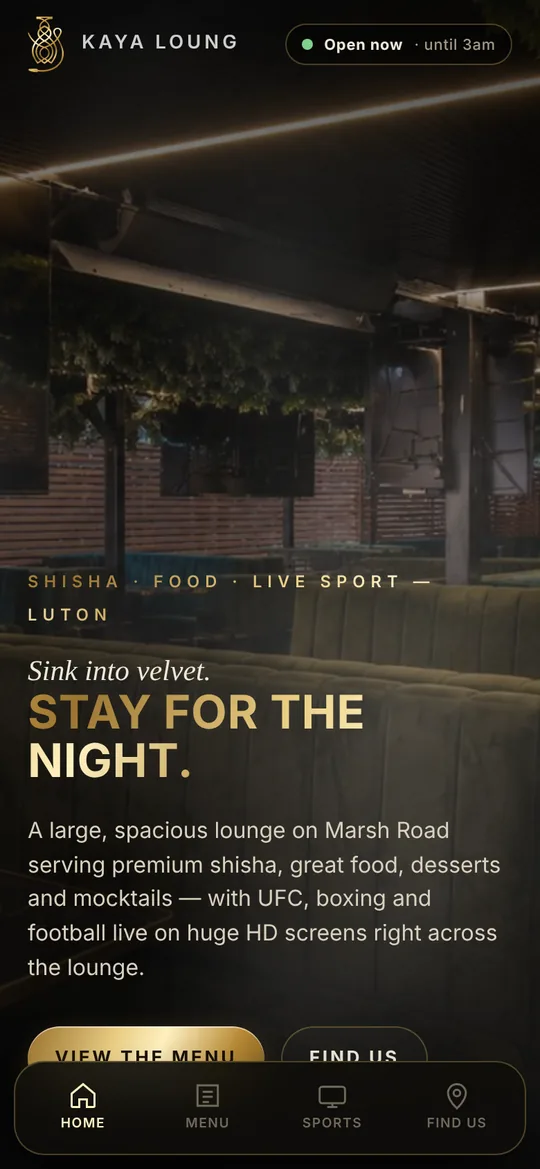
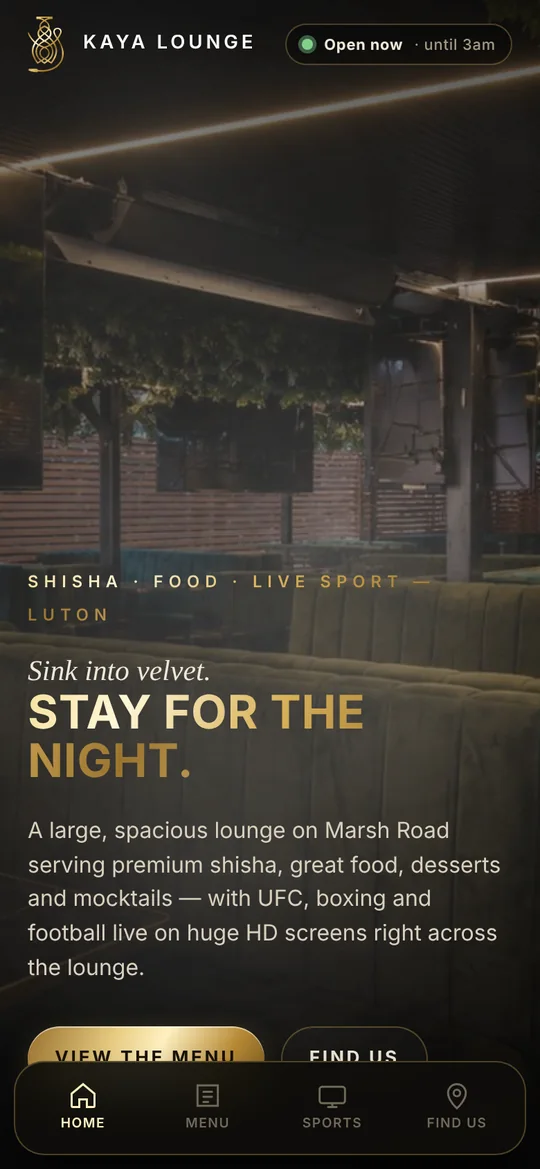
Updated Allure + Kaya screens, true-proportion phone frames, remove Coming soon tags
Claude-Session: https://claude.ai/code/session_01YJ1z4vHF3XLVwcpzAtDnW9

diff --git a/index.html b/index.html
@@ -615,14 +615,14 @@ img.o-hoodie{height:auto;object-fit:contain;filter:drop-shadow(0 26px 30px rgba(
 .pf-row{display:flex;gap:14px;overflow-x:auto;scroll-snap-type:x mandatory;scrollbar-width:none;padding:20px 22px 6px;-webkit-overflow-scrolling:touch}
 .pf-row::-webkit-scrollbar{display:none}
 .pf-ph{flex:none;scroll-snap-align:center;border:0;background:none;padding:0;color:inherit;cursor:zoom-in;display:flex;flex-direction:column;align-items:center;gap:10px;font:inherit}
-.pf-frame{display:block;width:170px;aspect-ratio:540/1169;border-radius:26px;padding:6px;background:#0b0b10;box-shadow:0 0 0 1.5px rgba(255,255,255,.12),0 22px 40px rgba(0,0,0,.35);transition:transform .35s var(--ease)}
-.pf-frame img{display:block;width:100%;height:100%;object-fit:cover;object-position:top;border-radius:21px}
+.pf-frame{display:block;width:190px;padding:5px;border-radius:24px;background:#0b0b10;box-shadow:0 0 0 1.5px rgba(255,255,255,.12),0 22px 40px rgba(0,0,0,.35);transition:transform .35s var(--ease)}
+.pf-frame img{display:block;width:100%;height:auto;aspect-ratio:540/1169;object-fit:contain;border-radius:19px}
 .pf-ph:hover .pf-frame{transform:translateY(-6px)}
 .pf-ph b{font-size:12.5px;font-weight:800;opacity:.85}
 .pf-lb{position:fixed;inset:0;z-index:300;background:rgba(8,8,15,.9);backdrop-filter:blur(10px);-webkit-backdrop-filter:blur(10px);display:grid;place-items:center;opacity:0;pointer-events:none;transition:opacity .3s}
 .pf-lb.open{opacity:1;pointer-events:auto}
-.pf-lbf{width:min(330px,74vw);aspect-ratio:540/1169;max-height:80vh;border-radius:40px;padding:9px;background:#0b0b10;box-shadow:0 0 0 2px #2a2a38,0 40px 90px rgba(0,0,0,.6)}
-.pf-lbf img{width:100%;height:100%;object-fit:cover;object-position:top;border-radius:32px}
+.pf-lbf{padding:8px;border-radius:34px;background:#0b0b10;box-shadow:0 0 0 2px #2a2a38,0 40px 90px rgba(0,0,0,.6)}
+.pf-lbf img{display:block;height:min(74vh,calc(72vw * 2.165));width:auto;aspect-ratio:540/1169;object-fit:contain;border-radius:27px}
 .pf-lbc{position:absolute;bottom:calc(18px + var(--safe-b));left:0;right:0;text-align:center;font-weight:800;color:#fff}
 .pf-x{position:absolute;top:calc(14px + var(--safe-t));right:14px;width:46px;height:46px;border-radius:50%;border:0;background:rgba(255,255,255,.12);color:#fff;font-size:28px;cursor:pointer}
 .pf-nav{position:absolute;top:50%;margin-top:-26px;width:52px;height:52px;border-radius:50%;border:0;background:rgba(255,255,255,.12);color:#fff;font-size:34px;line-height:1;cursor:pointer}
@@ -631,7 +631,7 @@ img.o-hoodie{height:auto;object-fit:contain;filter:drop-shadow(0 26px 30px rgba(
 #d-apps.lt .compare{background:#fff}
 #d-apps.lt .compare .row:first-child{background:#f3efff}
 #d-apps.lt .compare .row>div:nth-child(2){color:#16131f}
-@media (min-width:720px){.pf-tabs{margin:0 0 18px;padding:0}.pf-panel{display:none;grid-template-columns:300px 1fr;align-items:center;padding:30px 0}.pf-panel.on{display:grid}.pf-info{padding:0 0 0 34px}.pf-frame{width:172px}.pf-row{padding:20px 30px 10px}}
+@media (min-width:720px){.pf-tabs{margin:0 0 18px;padding:0}.pf-panel{display:none;grid-template-columns:300px 1fr;align-items:center;padding:30px 0}.pf-panel.on{display:grid}.pf-info{padding:0 0 0 34px}.pf-frame{width:180px}.pf-row{padding:20px 30px 10px}}
 
 /* ---------- intro splash ---------- */
 #splash{position:fixed;inset:0;z-index:999;background:#07070d;display:grid;place-items:center;overflow:hidden;animation:spOut 3.4s cubic-bezier(.4,0,.2,1) forwards;cursor:pointer}
@@ -958,11 +958,11 @@ setTimeout(done,3700);})();
       <div class="sec-head rv tight"><span class="eyebrow">Apps &amp; websites</span><h2>Apps we've built for<br><span class="grad-text">local businesses.</span></h2><p class="lede">Each one custom-designed in the client's own brand. Tap a screen to take a closer look.</p></div>
       <div class="pf-tabs rv"><button class="pf-tab on" data-app="allure" style="--ac:#b8862f"><i style="background:#b8862f"></i>Allure Club</button><button class="pf-tab" data-app="snw" style="--ac:#ffc21a"><i style="background:#ffc21a"></i>Smash N Wings</button><button class="pf-tab" data-app="kaya" style="--ac:#d4af37"><i style="background:#d4af37"></i>Kaya Lounge</button></div>
       <div class="pf-panels rv"><div class="pf-panel on" data-app="allure" style="--ac:#b8862f;--bgc:#fbf6ec">
-        <div class="pf-info"><span class="pf-tag">Coming soon</span><h3>Allure Club</h3><p>Coffee &amp; dessert lounge · loyalty app</p><div class="pf-chips"><span>Digital stamp card</span><span>Weekly spin &amp; win</span><span>Member offers</span><span>Staff terminal</span></div></div>
+        <div class="pf-info"><h3>Allure Club</h3><p>Coffee &amp; dessert lounge · loyalty app</p><div class="pf-chips"><span>Digital stamp card</span><span>Weekly spin &amp; win</span><span>Member offers</span><span>Staff terminal</span></div></div>
         <div class="pf-row"><button class="pf-ph" data-i="0"><span class="pf-frame"><img src="assets/apps/allure-home.webp" alt="Allure Club app: Join the club" loading="lazy"></span><b>Join the club</b></button><button class="pf-ph" data-i="1"><span class="pf-frame"><img src="assets/apps/allure-spin.webp" alt="Allure Club app: Spin the wheel" loading="lazy"></span><b>Spin the wheel</b></button><button class="pf-ph" data-i="2"><span class="pf-frame"><img src="assets/apps/allure-menu.webp" alt="Allure Club app: Live menu" loading="lazy"></span><b>Live menu</b></button><button class="pf-ph" data-i="3"><span class="pf-frame"><img src="assets/apps/allure-staff.webp" alt="Allure Club app: Staff stamp terminal" loading="lazy"></span><b>Staff stamp terminal</b></button></div></div><div class="pf-panel" data-app="snw" style="--ac:#ffc21a;--bgc:#2b0f5c">
-        <div class="pf-info"><span class="pf-tag">Coming soon</span><h3>Smash N Wings</h3><p>Smash burger &amp; wings takeaway · ordering app</p><div class="pf-chips"><span>Collection &amp; delivery</span><span>Deals carousel</span><span>Stamp rewards</span><span>Push notifications</span></div></div>
+        <div class="pf-info"><h3>Smash N Wings</h3><p>Smash burger &amp; wings takeaway · ordering app</p><div class="pf-chips"><span>Collection &amp; delivery</span><span>Deals carousel</span><span>Stamp rewards</span><span>Push notifications</span></div></div>
         <div class="pf-row"><button class="pf-ph" data-i="0"><span class="pf-frame"><img src="assets/apps/snw-home.webp" alt="Smash N Wings app: Order in two taps" loading="lazy"></span><b>Order in two taps</b></button><button class="pf-ph" data-i="1"><span class="pf-frame"><img src="assets/apps/snw-menu.webp" alt="Smash N Wings app: Menu &amp; checkout" loading="lazy"></span><b>Menu &amp; checkout</b></button><button class="pf-ph" data-i="2"><span class="pf-frame"><img src="assets/apps/snw-spin.webp" alt="Smash N Wings app: Rewards club" loading="lazy"></span><b>Rewards club</b></button><button class="pf-ph" data-i="3"><span class="pf-frame"><img src="assets/apps/snw-push.webp" alt="Smash N Wings app: Push offers" loading="lazy"></span><b>Push offers</b></button></div></div><div class="pf-panel" data-app="kaya" style="--ac:#d4af37;--bgc:#0e0c08">
-        <div class="pf-info"><span class="pf-tag">Coming soon</span><h3>Kaya Lounge</h3><p>Shisha lounge · venue app</p><div class="pf-chips"><span>Full menu</span><span>What’s showing</span><span>Google reviews</span><span>Event alerts</span></div></div>
+        <div class="pf-info"><h3>Kaya Lounge</h3><p>Shisha lounge · venue app</p><div class="pf-chips"><span>Full menu</span><span>What’s showing</span><span>Google reviews</span><span>Event alerts</span></div></div>
         <div class="pf-row"><button class="pf-ph" data-i="0"><span class="pf-frame"><img src="assets/apps/kaya-home.webp" alt="Kaya Lounge app: Venue home" loading="lazy"></span><b>Venue home</b></button><button class="pf-ph" data-i="1"><span class="pf-frame"><img src="assets/apps/kaya-menu.webp" alt="Kaya Lounge app: Food, drinks &amp; shisha" loading="lazy"></span><b>Food, drinks &amp; shisha</b></button><button class="pf-ph" data-i="2"><span class="pf-frame"><img src="assets/apps/kaya-sports.webp" alt="Kaya Lounge app: Live sport listings" loading="lazy"></span><b>Live sport listings</b></button><button class="pf-ph" data-i="3"><span class="pf-frame"><img src="assets/apps/kaya-home2.webp" alt="Kaya Lounge app: Reviews &amp; info" loading="lazy"></span><b>Reviews &amp; info</b></button></div></div></div>
     </div>
   </section>
